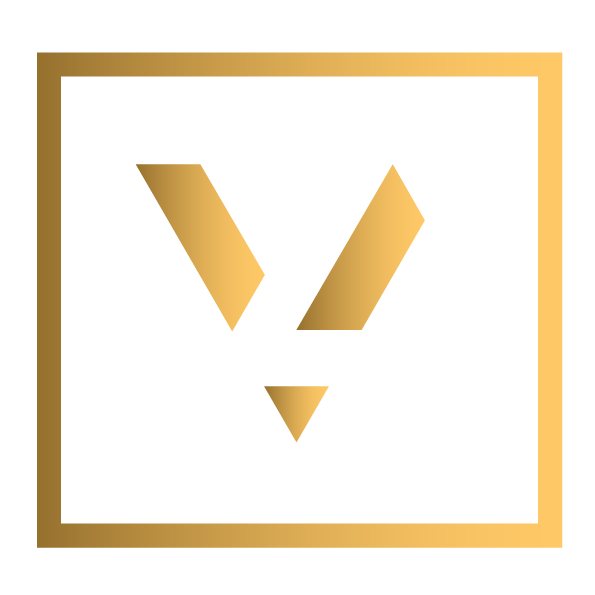
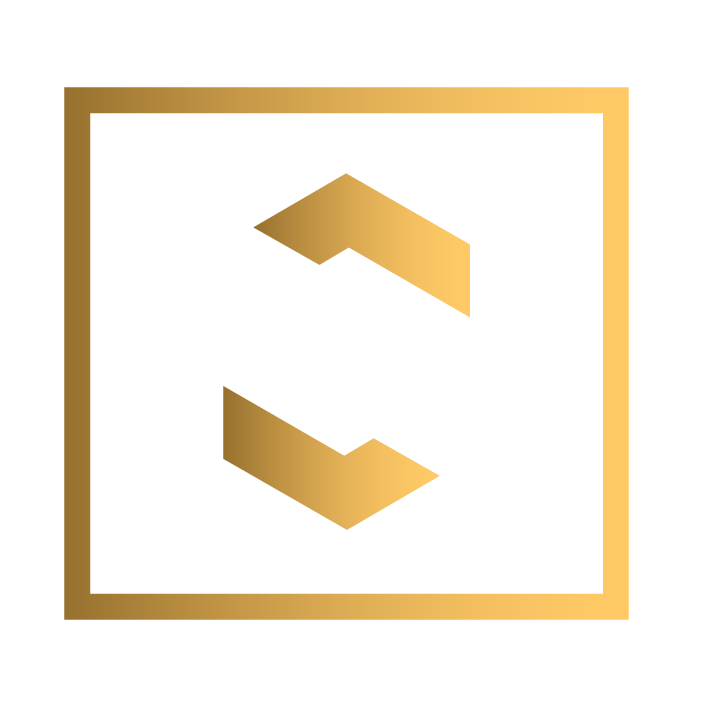
fix: hidden favorites search

diff --git a/src/components/Footer/index.js b/src/components/Footer/index.js
@@ -1,6 +1,6 @@
 import React from 'react';
 
-import logo from '../../media/icone.png'
+import logo from '../../media/logo.png'
 import { Container } from './styles';
 
 function Footer() {

diff --git a/src/components/Footer/styles.js b/src/components/Footer/styles.js
@@ -25,7 +25,7 @@ export const Container = styled.footer`
   }
 
   img{
-    width: 150px;
+    width: 350px;
   }
 
   div {
